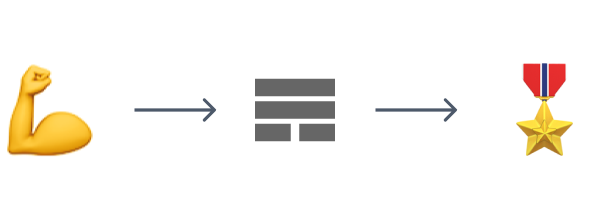
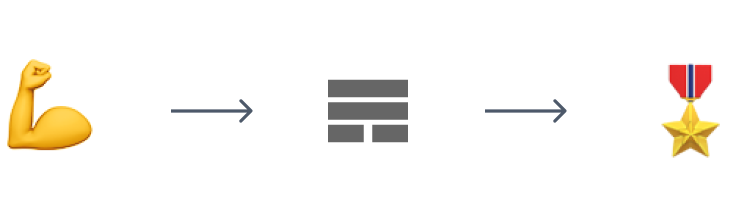
style: Added new pictures and fixed olas token link

diff --git a/components/HomepageSection/GetInvolved.jsx b/components/HomepageSection/GetInvolved.jsx
@@ -63,7 +63,7 @@ const GET_INVOLVED_DATA = [
   },
   {
     id: 7,
-    imageSrc: '/images/homepage/olas-token-illustration.svg',
+    imageSrc: '/images/homepage/olas-token.svg',
     title: 'Get OLAS, use it across the network',
     description: 'Olas provides access to the core functions of the network.',
     ctaText: 'Get OLAS',
@@ -141,7 +141,7 @@ const GetInvolvedCard = ({
             src={imageSrc}
             width={imageWidth}
             height={imageHeight}
-            className="overflow-visible self-center object-cover w-full mb-2"
+            className="overflow-visible my-3 self-center object-cover w-full mb-2"
           />
 
           )}
@@ -156,8 +156,9 @@ const GetInvolvedCard = ({
   }
 
   return (
-    <Card className={`${CARD_BG} flex col-span-1 md:col-span-2 lg:col-span-3 h-full`}>
-      <Link href={href}>
+    <Link className="col-span-1 md:col-span-2 lg:col-span-3" href={href}>
+      <Card className={`${CARD_BG} h-full flex `}>
+        
         <div className="justify-center md:grid md:grid-flow-col flex-col">
           <Image
             src={imageSrc}
@@ -174,8 +175,9 @@ const GetInvolvedCard = ({
             )}
           </div>
         </div>
-      </Link>
-    </Card>
+        
+      </Card>
+    </Link>
   );
 };
 
